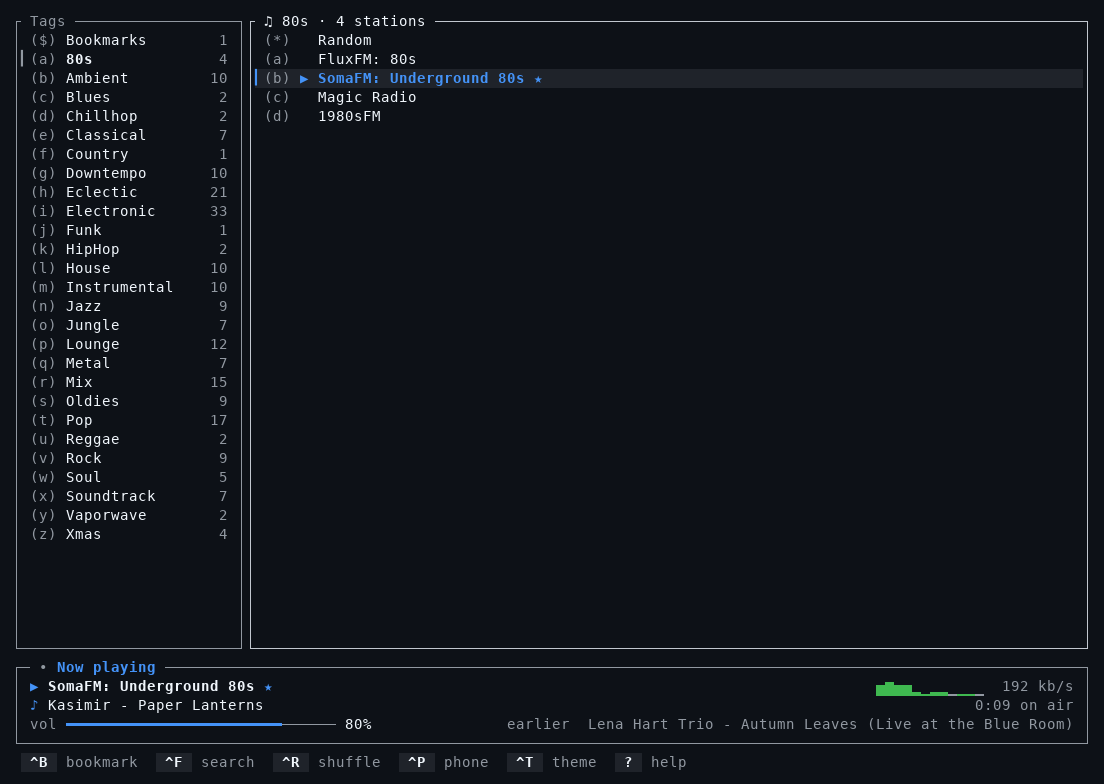
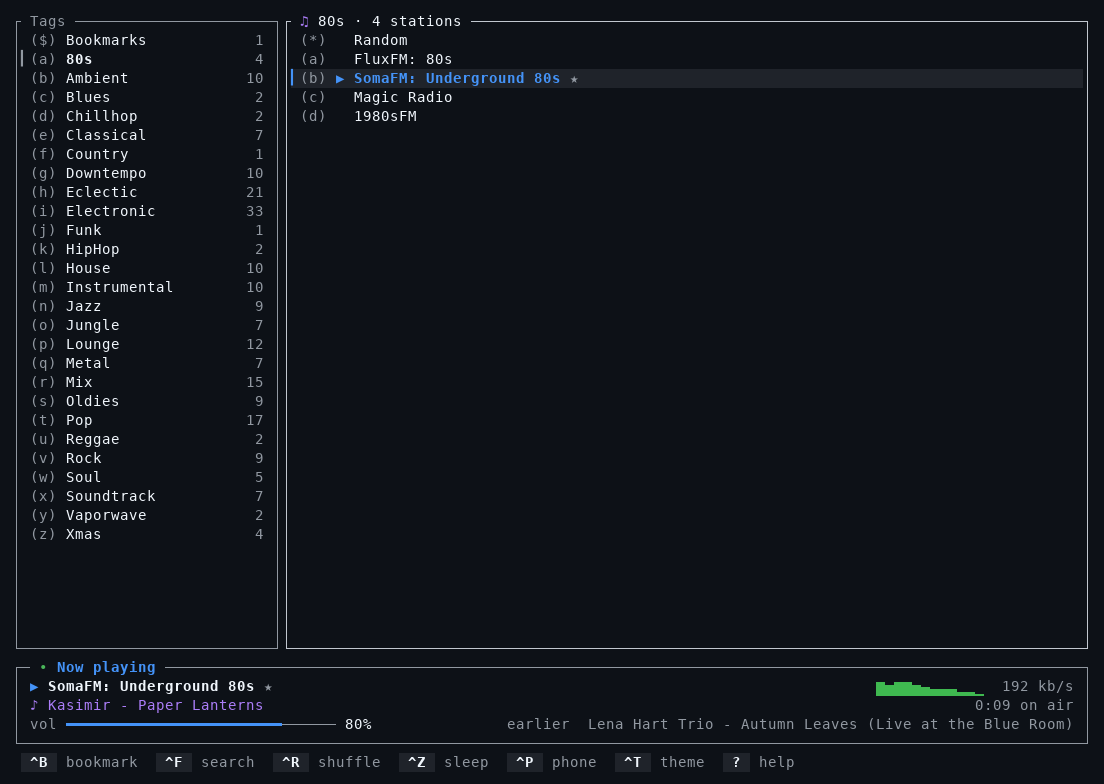
Update screenshot; honour the theme background in screenshots

diff --git a/tools/screenshot/shoot.py b/tools/screenshot/shoot.py
@@ -77,19 +77,23 @@ def color(name, default, bold=False):
     return default
 
 
-def render(screen, fonts, path):
+# The background set with OSC 11, as goradion's themes do; pyte ignores it.
+OSC_BG = re.compile(rb"\x1b\](11;(#[0-9a-fA-F]{6})|111)(\x1b\\|\x07)")
+
+
+def render(screen, fonts, path, term_bg=BG):
     cols, rows = screen.columns, screen.lines
-    img = Image.new("RGB", (cols * CW + 2 * PAD, rows * CH + 2 * PAD), BG)
+    img = Image.new("RGB", (cols * CW + 2 * PAD, rows * CH + 2 * PAD), term_bg)
     draw = ImageDraw.Draw(img)
     for y in range(rows):
         line = screen.buffer[y]
         for x in range(cols):
             ch = line[x]
-            fg, bg = color(ch.fg, FG), color(ch.bg, BG)
+            fg, bg = color(ch.fg, FG), color(ch.bg, term_bg)
             if ch.reverse:
                 fg, bg = bg, fg
             px, py = PAD + x * CW, PAD + y * CH
-            if bg != BG:
+            if bg != term_bg:
                 draw.rectangle([px, py, px + CW - 1, py + CH - 1], fill=bg)
             if ch.data and ch.data.strip():
                 if 0x2500 <= ord(ch.data[0]) <= 0x259F:
@@ -176,15 +180,22 @@ def main():
         screen.resize(rows, cols)
         os.kill(pid, signal.SIGWINCH)
 
+    term = {"bg": BG, "tail": b""}
+
     def pump(seconds):
         end = time.time() + seconds
         while time.time() < end:
             ready, _, _ = select.select([fd], [], [], 0.02)
             if ready:
                 try:
-                    stream.feed(os.read(fd, 1 << 16))
+                    data = os.read(fd, 1 << 16)
                 except OSError:
                     return
+                # Keep a tail, as a sequence may be split between reads.
+                for m in OSC_BG.finditer(term["tail"] + data):
+                    term["bg"] = m.group(2).decode() if m.group(2) else BG
+                term["tail"] = data[-32:]
+                stream.feed(data)
 
     set_size(opts.cols, opts.rows)
     pump(1.5)
@@ -205,7 +216,7 @@ def main():
         pump(step.get("wait", 0.6))
         if "shot" in step:
             path = os.path.join(opts.out, step["shot"])
-            render(screen, fonts, path)
+            render(screen, fonts, path, term["bg"])
             print("saved", path)
     # The child leads its own session, so this also stops the mpv it started.
     for sig in (signal.SIGTERM, signal.SIGKILL):
